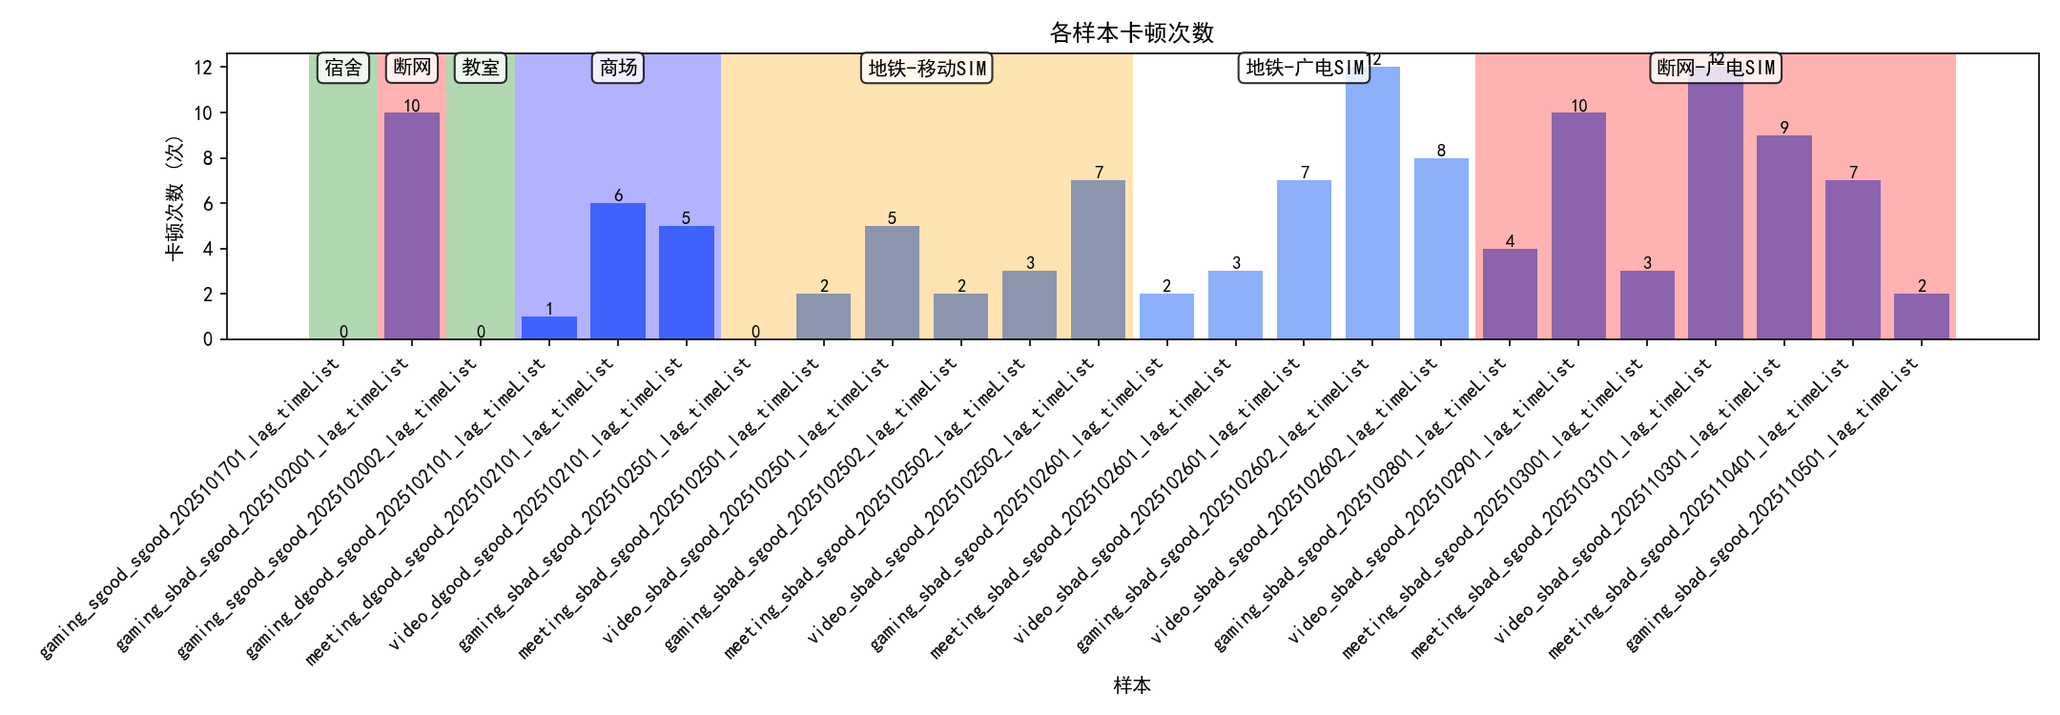
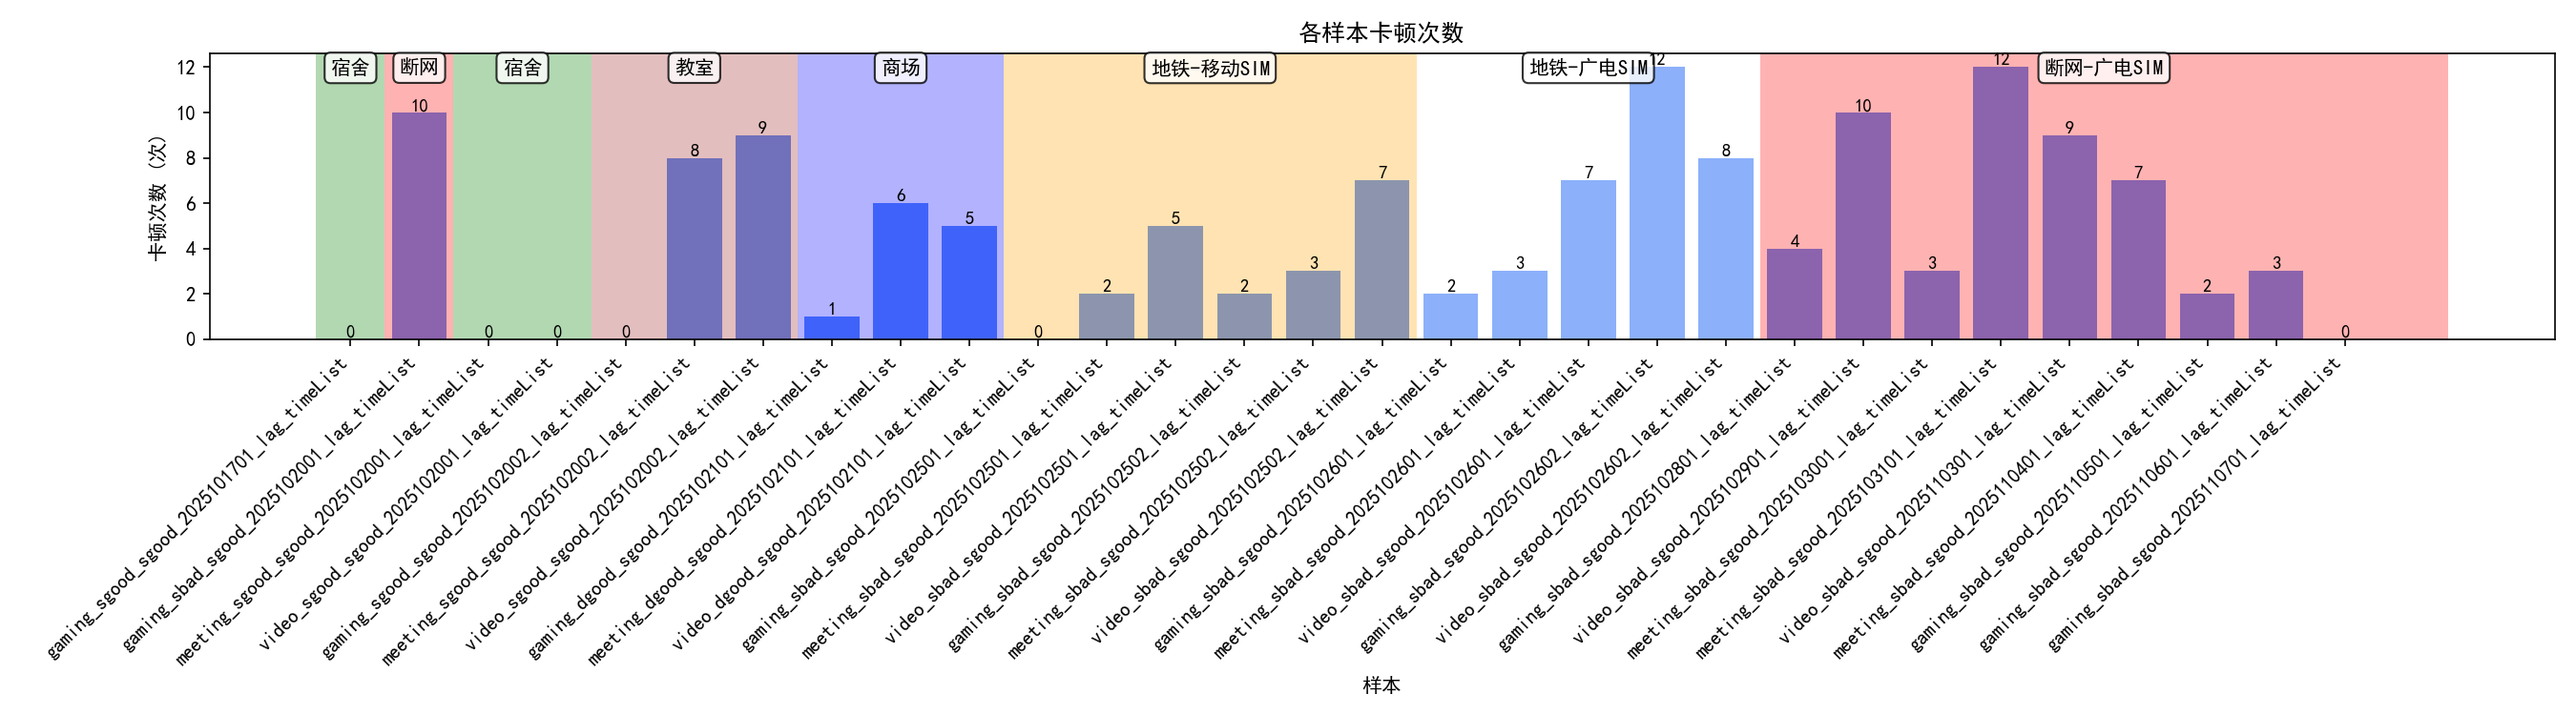
2025.11.9

Changed region(s): [[0.0, 0.0613, 0.9616, 0.92], [0.4963, 0.0307, 0.5894, 0.0613], [0.5273, 0.9507, 0.5583, 0.9813]]

diff --git a/label_log_analyzer/analyzer.py b/label_log_analyzer/analyzer.py
@@ -138,11 +138,12 @@ def highlight_diff_cases(ax, sample_range, color, text = None):
 def pic_highlight_diff_cases(ax):
     highlight_diff_cases(ax, (0,0), 'green', '宿舍')
     highlight_diff_cases(ax, (1,1), 'red', '断网')
-    highlight_diff_cases(ax, (2,2), 'green', '教室')
-    highlight_diff_cases(ax, (3,5), 'blue', '商场')
-    highlight_diff_cases(ax, (6,11), 'orange', '地铁-移动SIM')
-    highlight_diff_cases(ax, (12,16), 'white', '地铁-广电SIM')
-    highlight_diff_cases(ax, (17,23), 'red', '断网-广电SIM')
+    highlight_diff_cases(ax, (2,3), 'green', '宿舍')
+    highlight_diff_cases(ax, (4,6), 'brown', '教室')
+    highlight_diff_cases(ax, (7,9), 'blue', '商场')
+    highlight_diff_cases(ax, (10,15), 'orange', '地铁-移动SIM')
+    highlight_diff_cases(ax, (16,20), 'white', '地铁-广电SIM')
+    highlight_diff_cases(ax, (21,30), 'red', '断网-广电SIM')
 
 def plot_bars(result_dir: str, titles: Tuple[str, str], x_labels: List[str], counts: List[int], totals: List[float]):
     """绘制两幅柱状图：卡顿次数与总卡顿时间"""
@@ -248,13 +249,11 @@ def main():
     totals: List[float] = []
 
     for file_path in txt_files:
-
-
         total_lag_seconds, lag_intervals = calculate_lag_time(file_path)
 
         # 保存单文件分析文本到 result/ 同名 txt
         out_txt = save_analysis_text(result_dir, file_path, total_lag_seconds, lag_intervals)
-        """
+        
         print(f"\n分析文件: {file_path}")
         print("-" * 40)
         
@@ -265,7 +264,7 @@ def main():
         print(f"卡顿次数: {len(lag_intervals)} 次")
         print(f"总卡顿时间: {total_lag_seconds:.3f} 秒 ({format_time(total_lag_seconds)})")
         print("-" * 40)
-        """
+        
         # 收集用于绘图的数据
         x_labels.append(os.path.splitext(os.path.basename(file_path))[0])
         counts.append(len(lag_intervals))
